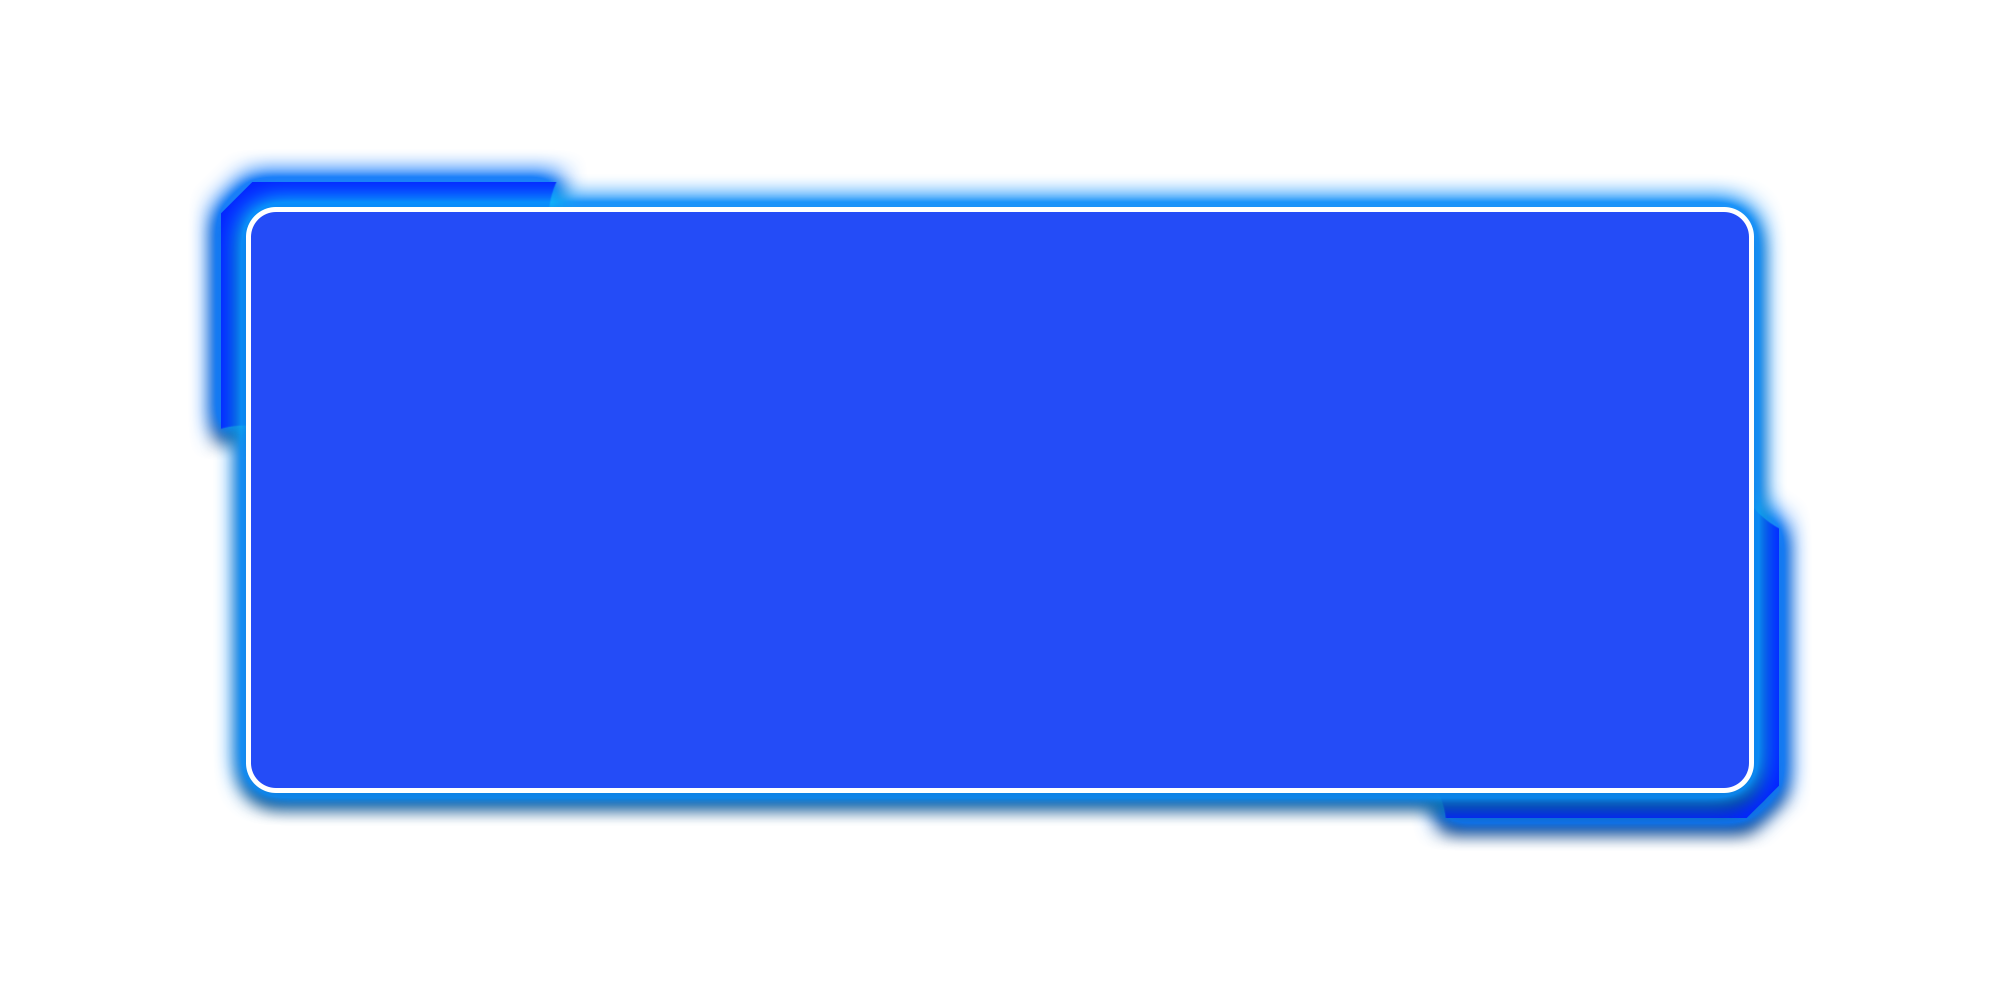
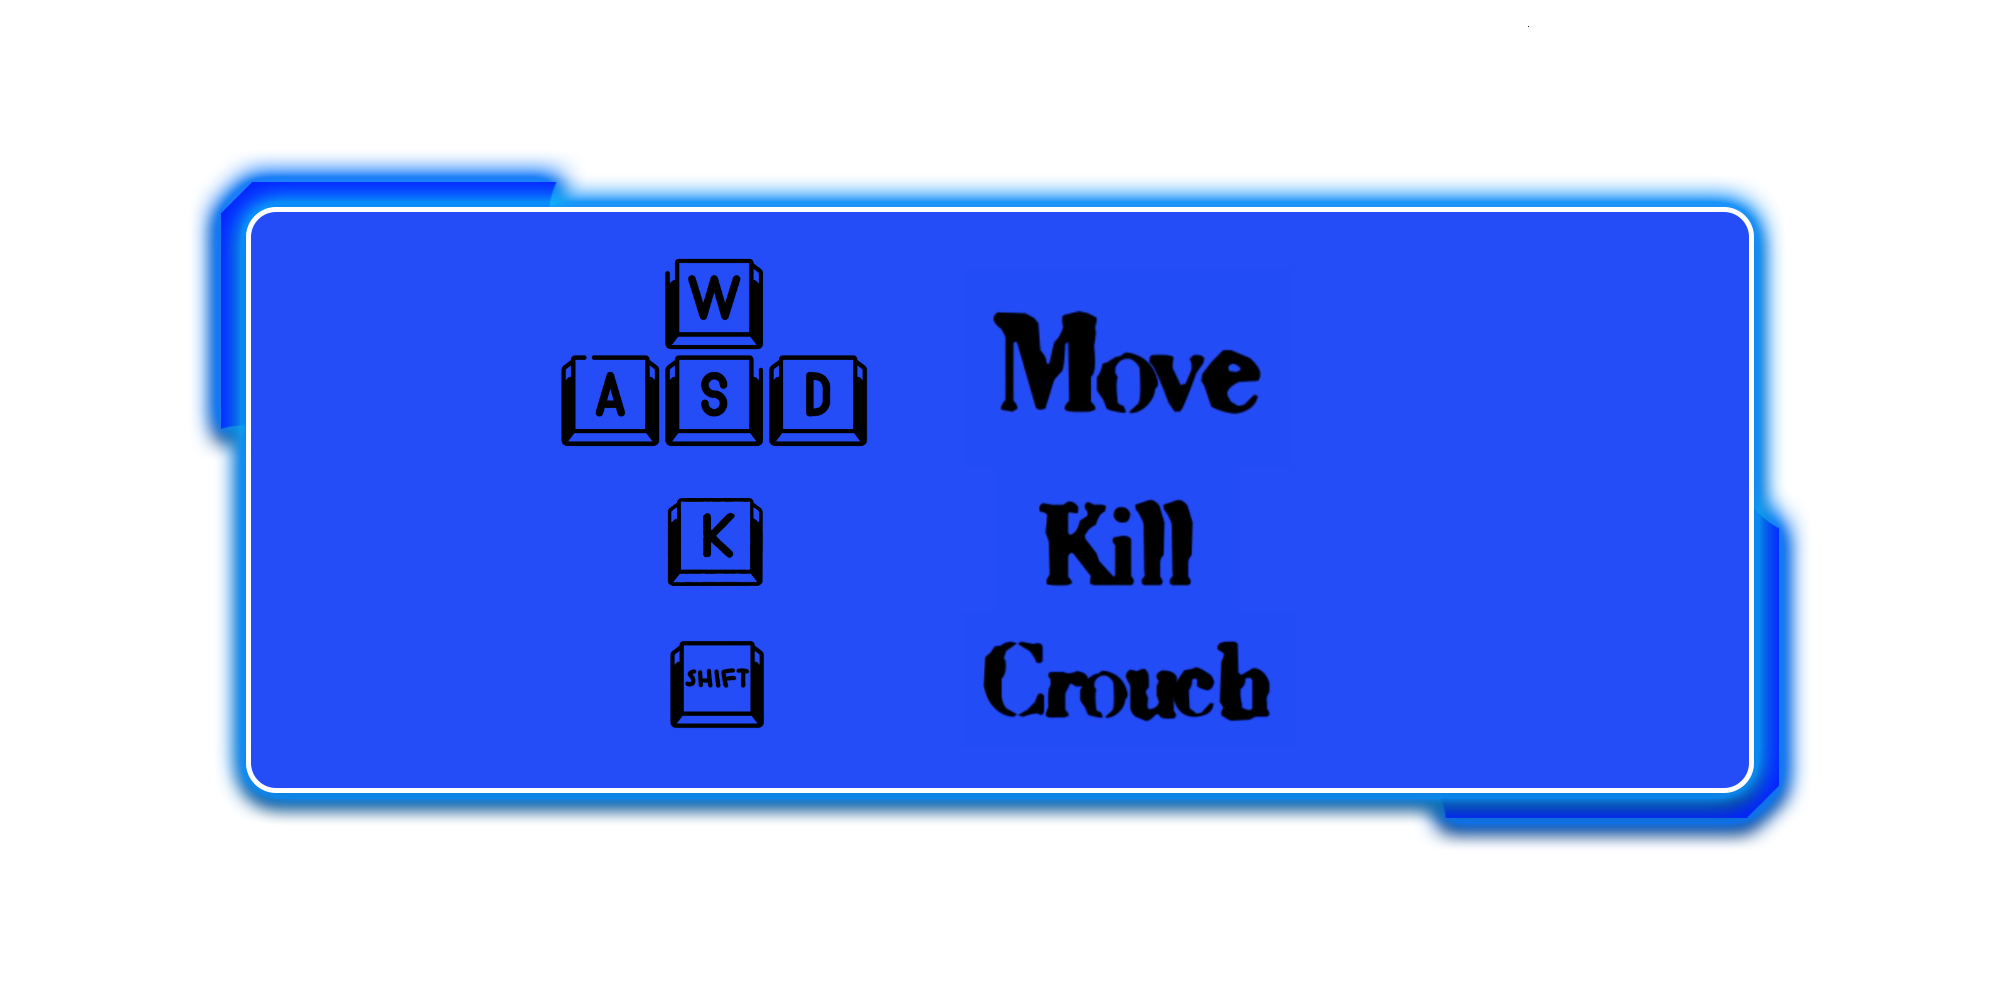
settings rifatte, tentativo di collisioni muri est

diff --git a/Clear the building.py b/Clear the building.py
@@ -48,43 +48,22 @@ stg_pos = (larghezza - larghezza // 17, 0)
 stg_rect = stg_img.get_rect(topleft = stg_pos)
 
 #settings interface
-#interface_imm = pygame.image.load("/Users/dany/Downloads/Clear the Building/ClearTheBuildingProject/CtB images/Interface.png").convert_alpha()
 interface_imm = pygame.image.load("CtB images/Interface.png").convert_alpha()
 interface_imm = pygame.transform.scale(interface_imm, (larghezza, altezza))
-#interface_wasd = pygame.image.load("/Users/dany/Downloads/Clear the Building/ClearTheBuildingProject/CtB images/K_wasd.png").convert_alpha()
-interface_wasd = pygame.image.load("CtB images/K_wasd.png").convert_alpha()
-interface_wasd = pygame.transform.scale(interface_wasd, (300, 300))
-interface_k = pygame.image.load("CtB images/K_k.png").convert_alpha()
-#interface_k = pygame.image.load("/Users/dany/Downloads/Clear the Building/ClearTheBuildingProject/CtB images/K_k.png").convert_alpha()
-#interface_k = pygame.transform.scale(interface_k, (300, 300))
 interface_x = pygame.image.load("CtB images/K_x.png").convert_alpha()
-#interface_x = pygame.image.load("/Users/dany/Downloads/Clear the Building/ClearTheBuildingProject/CtB images/K_x.png").convert_alpha()
-interface_x = pygame.transform.scale(interface_x, (300, 300))
-interface_shift = pygame.image.load("CtB images/SHIFT.png").convert_alpha()
-#interface_shift = pygame.image.load("/Users/dany/Downloads/Clear the Building/ClearTheBuildingProject/CtB images/SHIFT.png").convert_alpha()
-interface_shift = pygame.transform.scale(interface_shift, (300, 300))
-
-
-wasd = pygame.font.Font("SIXTY.TTF", 100)
-scritta_wasd = wasd.render("Move", True, "Black")
-k = pygame.font.Font("SIXTY.TTF", 100)
-scritta_kill = k.render("Kill", True, "Black")
+interface_x = pygame.transform.scale(interface_x, (larghezza // 16, larghezza // 16))
+interface_exit_game = pygame.image.load("CtB images/Exit_game.png").convert_alpha()
+interface_exit_game = pygame.transform.scale(interface_exit_game, (larghezza // 16, larghezza // 16))
 
 interface_imm_pos = (0, 0)
-interface_wasd_pos = (larghezza // 3 - interface_wasd.get_width() // 2, altezza // 2 - altezza // 3.5)
-interface_k_pos = (larghezza // 3 - interface_k.get_width() * 2 // 2.5, altezza // 2 - interface_k.get_height() // 2)
-interface_shift_pos = (larghezza // 3 - interface_shift.get_width() * 2 // 2.5, altezza // 1.25 - interface_shift.get_height())
-
-interface_x_pos = (larghezza - interface_x.get_width() * 2, altezza // 10)
-srcitta_wasd__pos = (larghezza // 2 - interface_wasd.get_width() * 1.5, altezza // 3.5)
-scritta_kill_pos = (larghezza // 1.95, altezza // 3.5)
-
-
+interface_x_pos = (larghezza - interface_x.get_width() * 3.2, altezza // 4.5)
+interface_exit_pos = (larghezza - interface_x.get_width() * 3.2, altezza // 1.47)
 bottone_x = interface_x.get_rect(topleft = interface_x_pos)
+bottone_exit_game = interface_exit_game.get_rect(topleft = interface_exit_pos)
 settings = False
 
 #pavimento
-pav_base = Pavimento(200,200,larghezza)
+pav_base = Pavimento(0,0, giocatore1.wx, giocatore1.wy)
 
 #ciclo principale
 while True:
@@ -102,11 +81,19 @@ while True:
             pos = pygame.mouse.get_pos()
             if bottone_x.collidepoint(pos):
                 settings = False
+        
+        if event.type == pygame.MOUSEBUTTONDOWN and event.button == 1:
+            pos = pygame.mouse.get_pos()
+            if bottone_exit_game.collidepoint(pos):
+                pygame.quit()
+                exit()
+        
 
        
 
     #modifiche e movimento al giocatore
     if not game_over:
+        
         giocatore1.mov()
         giocatore1.animazione()
         #collisioni
@@ -115,7 +102,12 @@ while True:
             if bot.stato == False and giocatore1.collisioni(bot):
                 game_over = True
             giocatore1.kill(bot)
-        
+
+        if giocatore1.confini(pav_base):
+            game_over = False
+        else:
+            game_over = True
+
 
     
     #AGIORNAMENTO SCHERMO
@@ -169,12 +161,10 @@ while True:
     #blit delle impostazioni
     if settings:
         schermo.blit(interface_imm, interface_imm_pos)
-        schermo.blit(interface_wasd, interface_wasd_pos)
-        schermo.blit(interface_k, interface_k_pos)
         schermo.blit(interface_x, interface_x_pos)
-        schermo.blit(scritta_wasd, srcitta_wasd__pos)
-        schermo.blit(scritta_kill, scritta_kill_pos)
-        schermo.blit(interface_shift, interface_shift_pos)
+        schermo.blit(interface_exit_game, interface_exit_pos)
+        
+
 
     
     

diff --git a/Classi_Giocatore_e_Bot.py b/Classi_Giocatore_e_Bot.py
@@ -10,6 +10,8 @@ class Giocatore:
         self.wx = 0
         self.wy = 0
         self.angolo = 0
+        self.lista_cll = []
+
 
 
         #immagini giocatore nelle 4 posizioni + rettangoli immagini
@@ -67,7 +69,7 @@ class Giocatore:
         
         #velocità di movimento
         self.vel_gioc = 0.7
-        self.vel_gioc_shift = 0.35
+        self.vel_gioc_shift = 0.3
         self.vel_gioc_ctrl = 9
 
         #superficie kill
@@ -105,17 +107,22 @@ class Giocatore:
 
     #funzione per movimento del giocatore
     def mov (self, tastiera = None):
-        #pos = (gioc_x, gioc_y)
+
+       
 
    
         tastiera = pygame.key.get_pressed()
-    #camminata lenta (4)
+
+
+        
         if tastiera[pygame.K_LSHIFT]:
             if tastiera[pygame.K_a]:
-                self.wx -= self.vel_gioc_shift
-                self.immagine = self.immagine_ruotata_270
-                self.angolo = 90
-                return True, self.angolo
+                for el in self.lista_cll:
+                    if el[0] == "a" and el[1] == False:
+                        self.wx -= self.vel_gioc_shift
+                        self.immagine = self.immagine_ruotata_270
+                        self.angolo = 90
+                        return True, self.angolo
             if tastiera[pygame.K_d]:
                 self.wx += self.vel_gioc_shift
                 self.immagine = self.immagine_ruotata_90
@@ -152,7 +159,7 @@ class Giocatore:
                 self.immagine = self.immagine_ruotata_180
                 self.angolo = 180
                 return True, self.angolo
-    #camminata veloce (8)
+        
         else:
             if tastiera[pygame.K_a]:
                 self.wx -= self.vel_gioc
@@ -175,13 +182,21 @@ class Giocatore:
                 self.angolo = 180
                 return True, self.angolo
             
+            
+            
 
         
 
     
     #funzione per verificare lo stato delle collisioni del personaggio con i campi visivi
     def collisioni(self, bot):
-        return self.rect.colliderect(bot.campo_rect)
+        return self.rect.colliderect(bot.campo_rect) 
+    
+
+    def confini(self, pav):
+        return self.rect.colliderect(pav.rect_pav)
+
+
     
     def animazione(self):
             if self.mov():

diff --git a/Mappa.py b/Mappa.py
@@ -2,16 +2,25 @@ import sys
 import pygame
 
 class Pavimento:
-    def __init__(self, x, y, lSchermo) -> None:
+    def __init__(self, x, y, px, py) -> None:
         self.x = x
         self.y = y
         self.imm_pav = pygame.image.load("CtB images/Floor.png").convert_alpha()
-        self.rect_pav = self.imm_pav.get_rect()
-        self.rect_pav.center = ((x,y))
+        surf_pav = pygame.surface.Surface((5000 - 300, 5000 - 240))
+        self.rect_pav = surf_pav.get_rect()
+        #self.rect_pav.topleft = ((x + 150 ,y + 120))
+
+
+        #self.confine_top = pygame.surface.Surface(5000, 1)
+        #self.confine_top_rect = self.confine_top.get_rect(topleft = self.imm_pav)
     
     def dis_pav (self, schermo, px, py):
+
+        #aggiorna pos
         niu_x = self.x - px
         niu_y = self.y - py
         self.rect_pav.x = niu_x
         self.rect_pav.y = niu_y
+        
+        #disegna
         schermo.blit(self.imm_pav, self.rect_pav)
